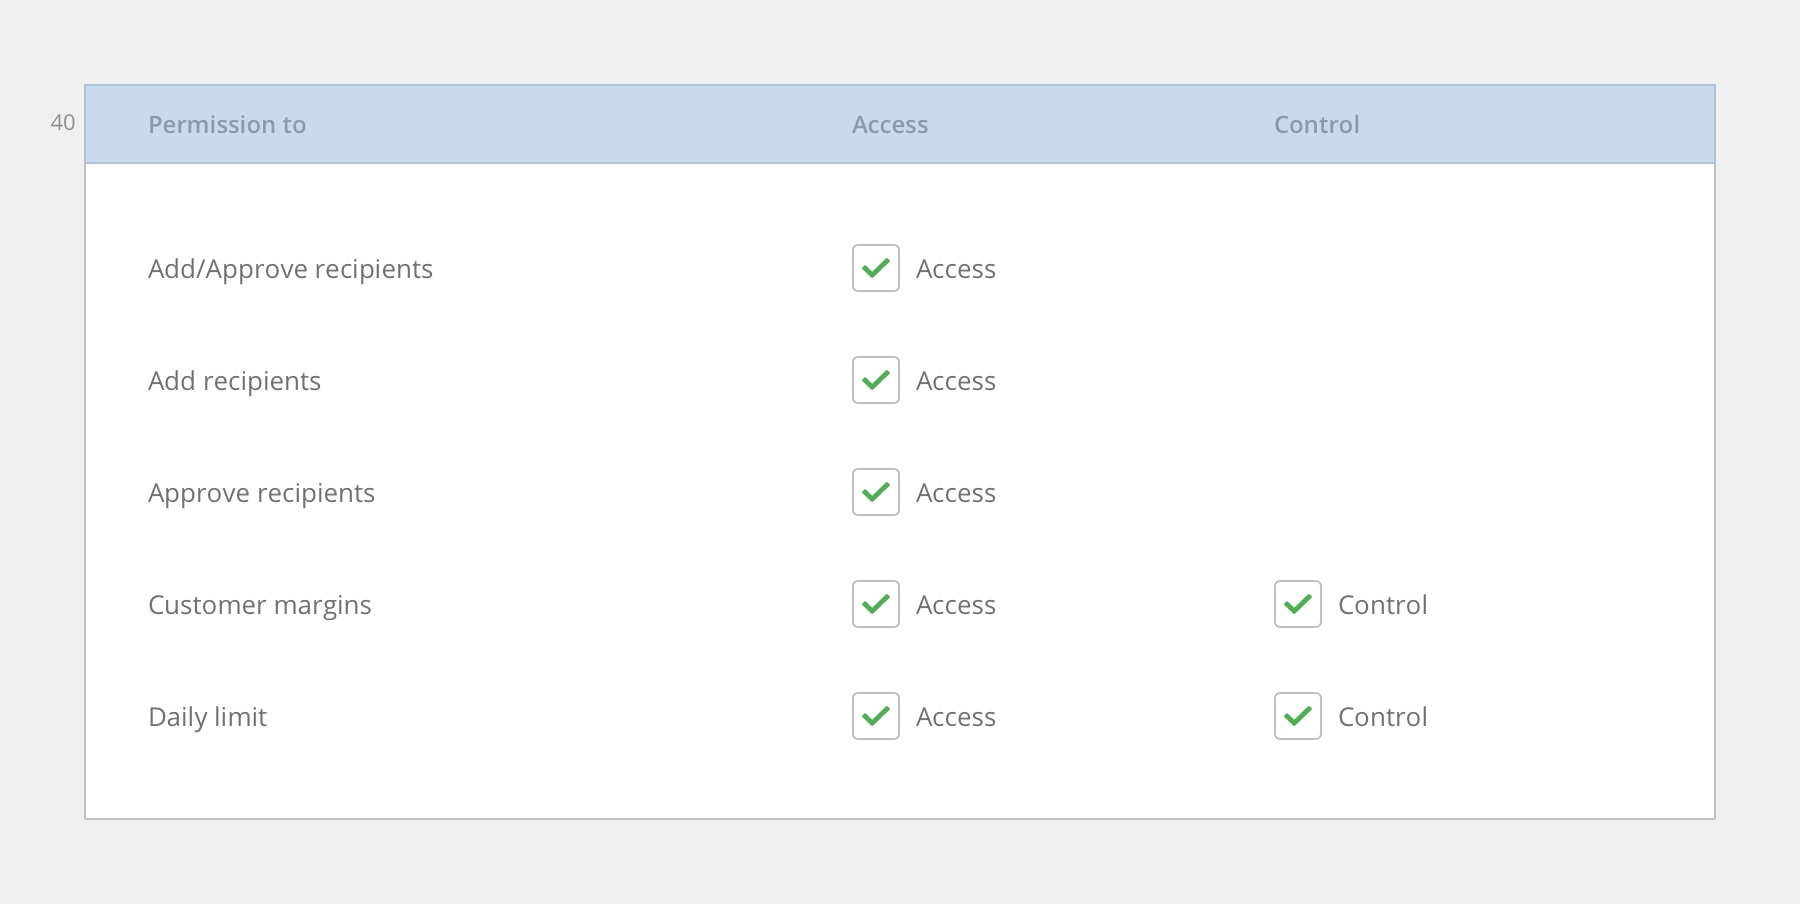
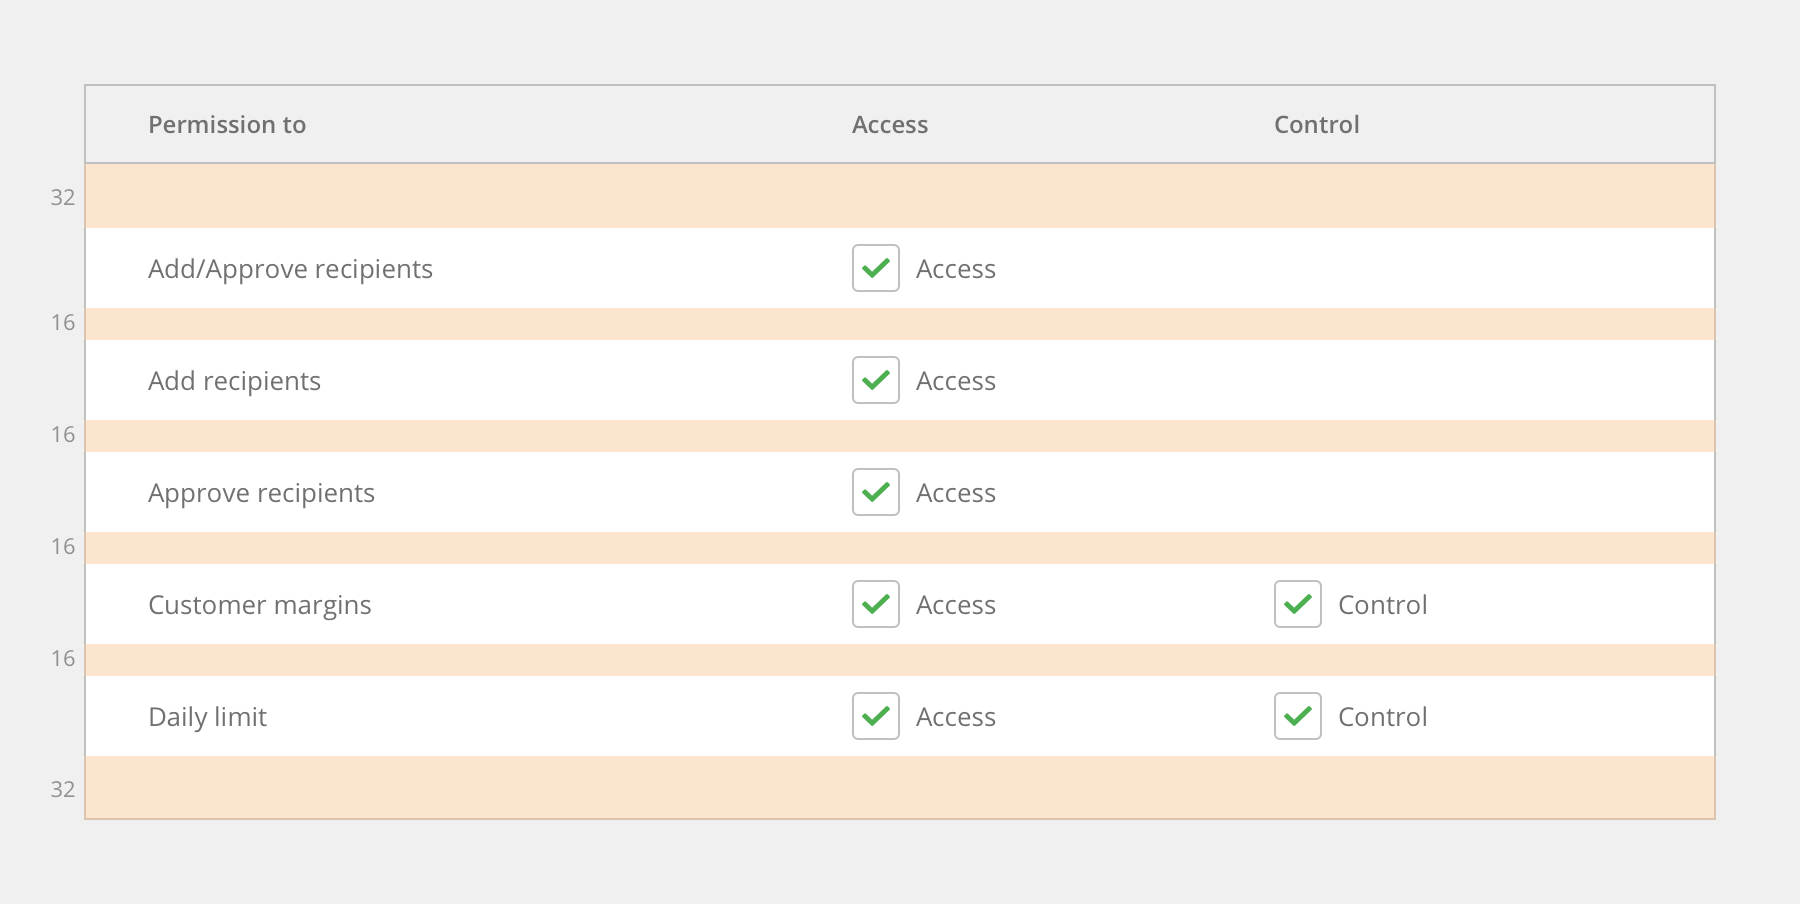
Updates organisms/option-tables.md
Auto commit by GitBook Editor

diff --git a/organisms/option-tables.md b/organisms/option-tables.md
@@ -11,3 +11,28 @@ Option tables are a mix of the [Data tables](/organisms/data-tables.md) and [For
 
 ![](/assets/organisms/option-tables-spacing.png)
 
+```
+/* Option tables section */
+width: 100%;
+padding-left: 16px;
+padding-right: 16px;
+```
+
+---
+
+##### Columns {#single-row-inputs}
+
+* The width of the columns is dynamic and it depends of the content.
+* Each column has a left and right padding of 16px.
+
+![](/assets/organisms/option-tables-column-spacing.png)
+
+```
+/* Columns */
+width: auto;
+padding-left: 16px;
+padding-right: 16px;
+```
+
+---
+
